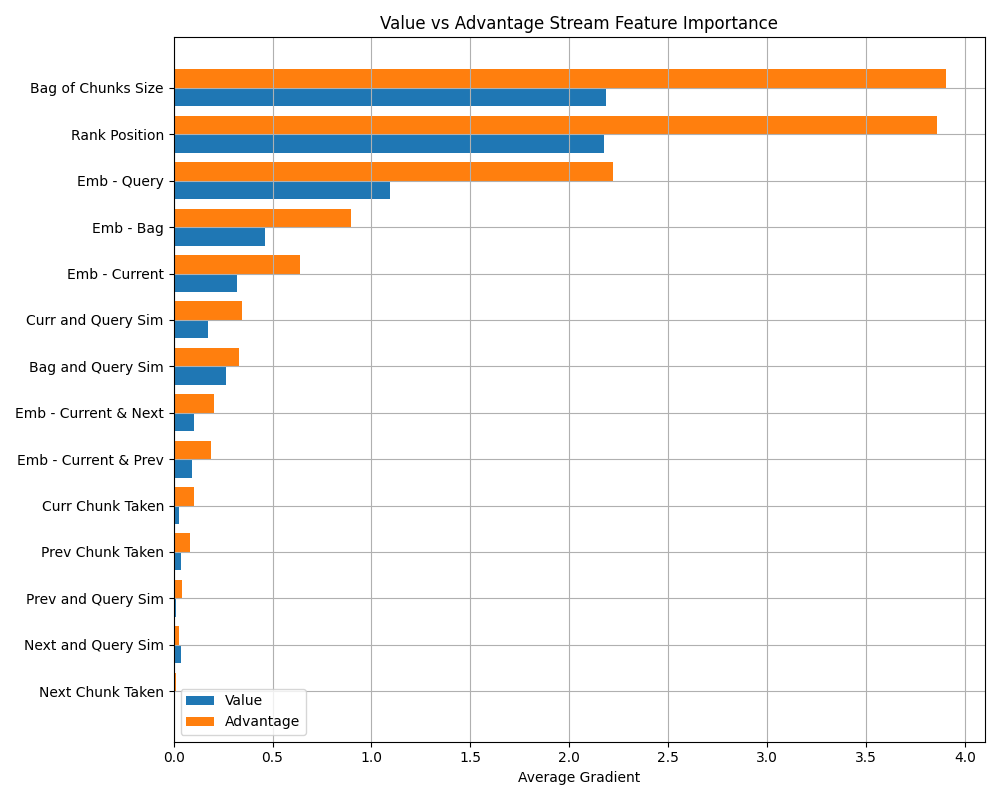
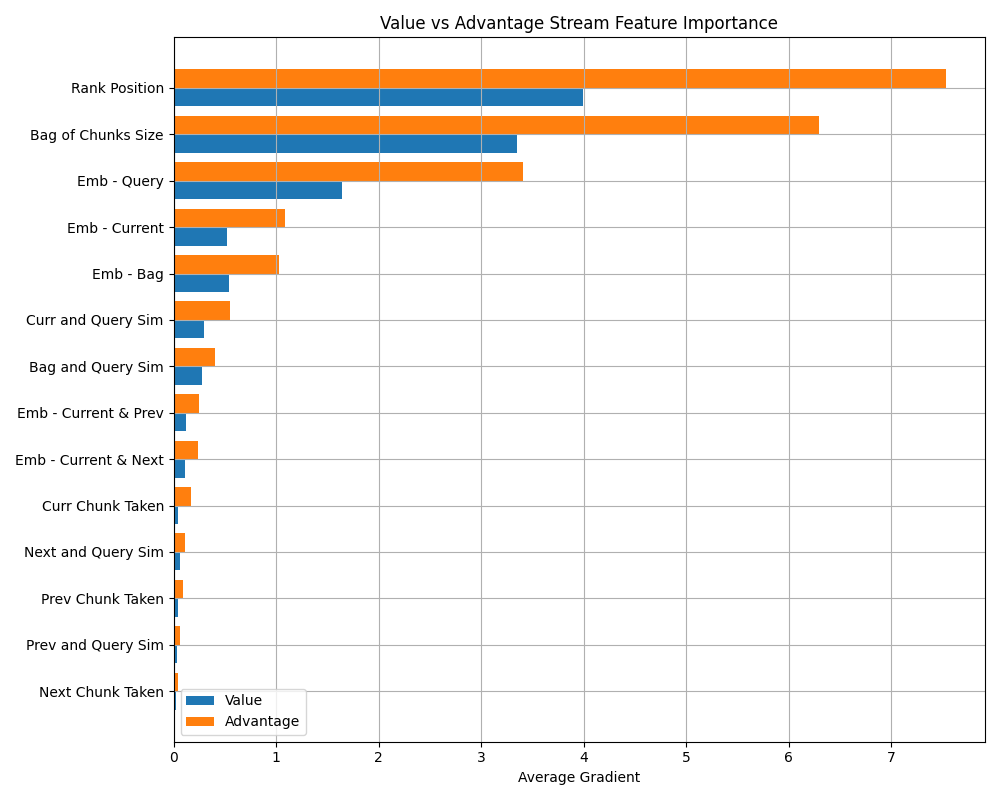
how it should be, at least

diff --git a/retrieval/Topic.py b/retrieval/Topic.py
@@ -17,9 +17,9 @@ class Topic:
         self.bag_of_chunks_embedding = torch.zeros(len(query_emb), dtype=torch.float32, device = self.device)
         self.current_loop = 0
         self.max_exp_loops = max_exp_loops
-        self.single_chunk_emb = None
-        self.double_chunk_emb = None
-        self.prev_double_chunk_emb = None
+        self.curr_chunk_emb = None
+        self.next_chunk_emb = None
+        self.prev_chunk_emb = None
 
     def cos_sim_norm(self, v1, v2):
         sim = torch.nn.functional.cosine_similarity(v1.unsqueeze(0), v2.unsqueeze(0))
@@ -39,10 +39,10 @@ class Topic:
         single_chunk_already_in_bag = int(self.current_chunk_id in self.bag_of_chunks)
         next_chunk_already_in_bag = int(self.current_chunk_id + 1 in self.bag_of_chunks)
         bag_size = len(self.bag_of_chunks) / len(self.ranked_chunks)
-        sq_sim = self.cos_sim_norm(self.single_chunk_emb, self.query_emb)
-        dq_sim = self.cos_sim_norm(self.double_chunk_emb, self.single_chunk_emb)
+        sq_sim = self.cos_sim_norm(self.curr_chunk_emb, self.query_emb)
+        dq_sim = self.cos_sim_norm(self.next_chunk_emb, self.curr_chunk_emb)
         bq_sim = self.cos_sim_norm(self.bag_of_chunks_embedding, self.query_emb)
-        pdq_sim = self.cos_sim_norm(self.prev_double_chunk_emb, self.single_chunk_emb)
+        pdq_sim = self.cos_sim_norm(self.prev_chunk_emb, self.curr_chunk_emb)
         state_metadata = torch.tensor([rank_position, prev_chunk_already_in_bag, single_chunk_already_in_bag, next_chunk_already_in_bag, bag_size, sq_sim, dq_sim, bq_sim, pdq_sim], device = self.device)
         return state_metadata
 
@@ -66,29 +66,27 @@ class Topic:
     def get_state_embedding(self):
 
         # get current chunk id embedding
-        self.single_chunk_emb = self.page_chunks_dict.get(self.current_chunk_id)
+        self.curr_chunk_emb = self.page_chunks_dict.get(self.current_chunk_id)
 
         # case when current chunk is the last in the page -> no double chunk
         if self.current_chunk_id == self.max_chunk_id:
-            self.double_chunk_emb = torch.zeros(768, device = self.device)
+            self.next_chunk_emb = torch.zeros(768, device = self.device)
         elif self.current_chunk_id == 0:
-            self.prev_double_chunk_emb = torch.zeros(768, device = self.device)
+            self.prev_chunk_emb = torch.zeros(768, device = self.device)
 
         # get forward double chunk
         if self.current_chunk_id != self.max_chunk_id:
-            self.double_chunk_emb = self.page_chunks_dict.get(self.current_chunk_id + 1)
+            self.next_chunk_emb = self.page_chunks_dict.get(self.current_chunk_id + 1)
 
         # get backward double chunk
         if self.current_chunk_id != 0:
-            self.prev_double_chunk_emb = self.page_chunks_dict.get(self.current_chunk_id - 1)
+            self.prev_chunk_emb = self.page_chunks_dict.get(self.current_chunk_id - 1)
         
-        state_embedding = torch.concat((self.single_chunk_emb, self.double_chunk_emb, self.prev_double_chunk_emb, self.query_emb, self.bag_of_chunks_embedding), dim = 0)
+        state_embedding = torch.concat((self.curr_chunk_emb, self.next_chunk_emb, self.prev_chunk_emb, self.query_emb, self.bag_of_chunks_embedding), dim = 0)
 
         return state_embedding
 
     def skip(self):
-        
-        self.current_chunk_id = self.ranked_chunks[self.current_rank_chunk]
 
         if self.current_chunk_id in self.relevant_chunks and self.current_chunk_id not in self.bag_of_chunks:
             reward = -1
@@ -114,13 +112,11 @@ class Topic:
     
     def take_single(self):
 
-        self.current_chunk_id = self.ranked_chunks[self.current_rank_chunk]
-
         # update bag mean embedding
-        if len(self.bag_of_chunks) > 0:
-            self.bag_of_chunks_embedding = (self.bag_of_chunks_embedding * len(self.bag_of_chunks) + self.single_chunk_emb) / (len(self.bag_of_chunks) + 1)
-        else:
-            self.bag_of_chunks_embedding = self.single_chunk_emb
+        if self.current_chunk_id not in self.bag_of_chunks:
+            n = len(self.bag_of_chunks)
+            self.bag_of_chunks_embedding = (self.bag_of_chunks_embedding * n + self.curr_chunk_emb) / (n + 1)
+            self.bag_of_chunks.append(self.current_chunk_id)
 
         # compute reward
         if self.current_chunk_id in self.relevant_chunks and self.current_chunk_id not in self.bag_of_chunks:
@@ -155,32 +151,29 @@ class Topic:
     def take_double(self):
 
         if self.current_chunk_id == self.max_chunk_id:
-            reward = 0
+            state_embedding, state_metadata, reward, self.done = self.take_single()
+            return state_embedding, state_metadata, reward, self.done
         else:
-
-            self.current_chunk_id = self.ranked_chunks[self.current_rank_chunk]
-
-            # before_f1_score = self.f1_score
-
-            if self.current_chunk_id == self.max_chunk_id:
-                self.current_chunk_id -= 1
 
             c1 = self.current_chunk_id
             c2 = self.current_chunk_id + 1
 
             # update bag mean embedding, if at least one is not already in the bag
-            if c1 not in self.bag_of_chunks or c2 not in self.bag_of_chunks:
-                if len(self.bag_of_chunks) > 0:
-                    self.bag_of_chunks_embedding = (self.bag_of_chunks_embedding * len(self.bag_of_chunks) + self.double_chunk_emb) / (len(self.bag_of_chunks) + 1)
-                else:
-                    self.bag_of_chunks_embedding = self.double_chunk_emb
+            if c1 not in self.bag_of_chunks:
+                n = len(self.bag_of_chunks)
+                self.bag_of_chunks_embedding = (self.bag_of_chunks_embedding * n + self.curr_chunk_emb) / (n + 1)
+                self.bag_of_chunks.append(c1)
+            if c2 not in self.bag_of_chunks:
+                n = len(self.bag_of_chunks)
+                self.bag_of_chunks_embedding = (self.bag_of_chunks_embedding * n + self.next_chunk_emb) / (n + 1)
+                self.bag_of_chunks.append(c2)
 
             # compute reward
             both_relevant = c1 in self.relevant_chunks and c2 in self.relevant_chunks
-            one_is_relevant = c1 in self.relevant_chunks or c2 in self.relevant_chunks
+            #one_is_relevant = c1 in self.relevant_chunks or c2 in self.relevant_chunks
             both_not_in_bag = c1 not in self.bag_of_chunks and c2 not in self.bag_of_chunks
             one_not_in_bag = c1 not in self.bag_of_chunks or c2 not in self.bag_of_chunks
-            one_wasnt_selected_by_cosine_sim = c1 not in self.ranked_chunks[:10] or c2 not in self.ranked_chunks[:10]
+            #one_wasnt_selected_by_cosine_sim = c1 not in self.ranked_chunks[:10] or c2 not in self.ranked_chunks[:10]
             if both_relevant and both_not_in_bag:
                 reward = 4 #4
             elif both_relevant and one_not_in_bag:
@@ -193,12 +186,6 @@ class Topic:
             #    reward = 0
             else:
                 reward = -1
-
-            # add to bag
-            if c1 not in self.bag_of_chunks:
-                self.bag_of_chunks.append(c1)
-            if c2 not in self.bag_of_chunks:
-                self.bag_of_chunks.append(c2)
         
         # go next: restart if last -1 in the rank, else go next
         if self.current_rank_chunk == len(self.ranked_chunks) - 1:
@@ -212,31 +199,28 @@ class Topic:
         # new state
         state_embedding = self.get_state_embedding()
         state_metadata = self.get_state_metadata()
-
-        # self.set_f1_score()
-        # reward = self.f1_score - before_f1_score
 
         return (state_embedding, state_metadata, reward/10, self.done)
     
     def take_prev_double(self):
 
         if self.current_chunk_id == 0:
-            reward = -1
+            state_embedding, state_metadata, reward, self.done = self.take_single()
+            return state_embedding, state_metadata, reward, self.done
         else:
-
-            self.current_chunk_id = self.ranked_chunks[self.current_rank_chunk]
-
-            # before_f1_score = self.f1_score
 
             c1 = self.current_chunk_id
             c2 = self.current_chunk_id - 1
 
             # update bag mean embedding, if at least one is not already in the bag
-            if c1 not in self.bag_of_chunks or c2 not in self.bag_of_chunks:
-                if len(self.bag_of_chunks) > 0:
-                    self.bag_of_chunks_embedding = (self.bag_of_chunks_embedding * len(self.bag_of_chunks) + self.double_chunk_emb) / (len(self.bag_of_chunks) + 1)
-                else:
-                    self.bag_of_chunks_embedding = self.double_chunk_emb
+            if c1 not in self.bag_of_chunks:
+                n = len(self.bag_of_chunks)
+                self.bag_of_chunks_embedding = (self.bag_of_chunks_embedding * n + self.curr_chunk_emb) / (n + 1)
+                self.bag_of_chunks.append(c1)
+            if c2 not in self.bag_of_chunks:
+                n = len(self.bag_of_chunks)
+                self.bag_of_chunks_embedding = (self.bag_of_chunks_embedding * n + self.prev_chunk_emb) / (n + 1)
+                self.bag_of_chunks.append(c2)
 
             # compute reward
             both_relevant = c1 in self.relevant_chunks and c2 in self.relevant_chunks
@@ -256,12 +240,6 @@ class Topic:
             #    reward = 0
             else:
                 reward = -1
-
-            # add to bag
-            if c1 not in self.bag_of_chunks:
-                self.bag_of_chunks.append(c1)
-            if c2 not in self.bag_of_chunks:
-                self.bag_of_chunks.append(c2)
         
         # go next: restart if last -1 in the rank, else go next
         if self.current_rank_chunk == len(self.ranked_chunks) - 1:
@@ -275,9 +253,6 @@ class Topic:
         # new state
         state_embedding = self.get_state_embedding()
         state_metadata = self.get_state_metadata()
-
-        # self.set_f1_score()
-        # reward = self.f1_score - before_f1_score
 
         return (state_embedding, state_metadata, reward/10, self.done)
 
@@ -288,12 +263,12 @@ class Topic:
         self.set_f1_score()
 
         if len(self.bag_of_chunks) == 0:
-            reward = -1
+            reward = -0.1
         else:
-            reward = self.f1_score*10
+            reward = self.f1_score
 
         self.current_chunk_id = self.ranked_chunks[self.current_rank_chunk]
         state_embedding = self.get_state_embedding()
         state_metadata = self.get_state_metadata()
 
-        return (state_embedding, state_metadata, reward/10, self.done)
+        return (state_embedding, state_metadata, reward, self.done)

diff --git a/retrieval/retrieval_5_1_rl_train.py b/retrieval/retrieval_5_1_rl_train.py
@@ -104,7 +104,7 @@ def train():
     data_test.load_relevant()
     data_test.load_cosine_sim()
 
-    train_set, validation_set = data.balanced_split_query_ids(data.query_ids, 0.66)
+    train_set, validation_set = data.balanced_split_query_ids(data.query_ids, 1)
 
     best_score = 0
     metadata_dim = 9
@@ -178,6 +178,12 @@ def train():
             relevant_chunks = query.get("relevant_chunks")
             ranked_chunks = data.get_ranked_with_prev_chunks_from_query_id(query_id)
 
+            for item in relevant_chunks:
+                if not any(x == item for x in ranked_chunks):
+                    continue
+            
+            logging.info(f"Epoch: {epoch}, Query: {query_desc}")
+
             topic = Topic(query_emb, page, ranked_chunks, relevant_chunks, max_exp_loops)
 
             state_emb, state_meta, _, _ = topic.get_initial_step()
@@ -186,6 +192,7 @@ def train():
             episode_reward = 0
             done = False
             episode_steps = 0
+
             while not done:
                 episode_steps += 1
                 step_count += 1
@@ -197,6 +204,8 @@ def train():
                     with torch.no_grad():
                         q = online_net(state_emb.unsqueeze(0), state_meta.unsqueeze(0))
                         action = q.argmax().item()
+                
+                action_log = f"Chunk: {topic.current_chunk_id}"
                 
                 if topic.current_loop + 1 > max_exp_loops:
                     action = 4
@@ -211,6 +220,8 @@ def train():
                     next_emb, next_meta, reward, done = topic.take_prev_double()
                 elif action == 4:
                     next_emb, next_meta, reward, done = topic.submit_current_bag()
+
+                logging.info(f"{action_log}, Action Code: {action}, Reward: {reward:.4f}, Rand: {int(rand)}")
                     
                 next_emb = next_emb.to(device)
                 next_meta = next_meta.to(device)
@@ -260,8 +271,6 @@ def train():
                     
                     # Update priorities in replay buffer
                     replay.update_priorities(idxs, td_errors)
-                    
-                    logging.info(f"Epoch: {epoch}, Query: {query_id}, Step: {episode_steps}, Loss: {loss.item():.4f}, Reward: {reward:.4f}, Rand: {int(rand)}, Action Code: {action}")
                 
                 if step_count % target_update == 0:
                     target_net.load_state_dict(online_net.state_dict())
@@ -269,13 +278,13 @@ def train():
                     
             epoch_reward += episode_reward
             epoch_f1_score += topic.f1_score
-            logging.info(f"Epoch: {epoch}, Query: {query_desc}, Episode Reward: {episode_reward:.4f}, Episode F1: {topic.f1_score:.4f}, Bag: {topic.bag_of_chunks}, Relevant: {topic.relevant_chunks}, Top_10_Rank: {topic.ranked_chunks[:10]}")
+            logging.info(f"Episode Reward: {episode_reward:.4f}, Episode F1: {topic.f1_score:.4f}, Bag: {topic.bag_of_chunks}, Relevant: {topic.relevant_chunks}")
             
             if epsilon > epsilon_min:
                 epsilon *= epsilon_decay
                 
-        avg_epoch_reward = epoch_reward / len(data.query_ids)
-        avg_epoch_f1_score = epoch_f1_score / len(data.query_ids)
+        avg_epoch_reward = epoch_reward / len(train_set)
+        avg_epoch_f1_score = epoch_f1_score / len(train_set)
 
         logging.info(f"Epoch: {epoch}, Average Reward: {avg_epoch_reward:.4f}, Average F1: {avg_epoch_f1_score:.4f}, Epsilon: {epsilon:.4f}")
         print(f"Average Reward: {avg_epoch_reward:.4f}, Average F1: {avg_epoch_f1_score:.4f}")
@@ -284,30 +293,30 @@ def train():
 
         
         # Greedy evaluation
-        if epoch > 10:
-            online_net.eval()
+        # if epoch > 10:
+        #     online_net.eval()
 
-            avg_train_reward, avg_train_f1_score = evaluate(
-                data, train_set, online_net, device, 
-                max_exp_loops
-            )
-            logging.info(f"GREEDY: Train Reward: {avg_train_reward:.4f}, Val F1: {avg_train_f1_score:.4f}")
-            print(f"GREEDY: Train - Reward: {avg_train_reward:.4f}, F1: {avg_train_f1_score:.4f}")
-            train_f1_scores.append(avg_train_f1_score)
+        #     avg_train_reward, avg_train_f1_score = evaluate(
+        #         data, train_set, online_net, device, 
+        #         max_exp_loops
+        #     )
+        #     logging.info(f"GREEDY: Train Reward: {avg_train_reward:.4f}, Val F1: {avg_train_f1_score:.4f}")
+        #     print(f"GREEDY: Train - Reward: {avg_train_reward:.4f}, F1: {avg_train_f1_score:.4f}")
+        #     train_f1_scores.append(avg_train_f1_score)
 
-            avg_val_reward, avg_val_f1_score = evaluate(
-                data, validation_set, online_net, device, 
-                max_exp_loops
-            )
-            logging.info(f"GREEDY: Val Reward: {avg_val_reward:.4f}, Val F1: {avg_val_f1_score:.4f}")
-            print(f"GREEDY: Validation - Reward: {avg_val_reward:.4f}, F1: {avg_val_f1_score:.4f}")
-            val_f1_scores.append(avg_val_f1_score)
+        #     avg_val_reward, avg_val_f1_score = evaluate(
+        #         data, validation_set, online_net, device, 
+        #         max_exp_loops
+        #     )
+        #     logging.info(f"GREEDY: Val Reward: {avg_val_reward:.4f}, Val F1: {avg_val_f1_score:.4f}")
+        #     print(f"GREEDY: Validation - Reward: {avg_val_reward:.4f}, F1: {avg_val_f1_score:.4f}")
+        #     val_f1_scores.append(avg_val_f1_score)
 
-            if es.step(avg_val_f1_score):
-                print(f"Early stopping at epoch {epoch}")
-                break
+        #     if es.step(avg_val_f1_score):
+        #         print(f"Early stopping at epoch {epoch}")
+        #         break
         
-        if epoch > 25:
+        if epoch > 20:
             avg_val_reward, avg_val_f1_score = evaluate(
                 data_test, data_test.query_ids, online_net, device, 
                 max_exp_loops
